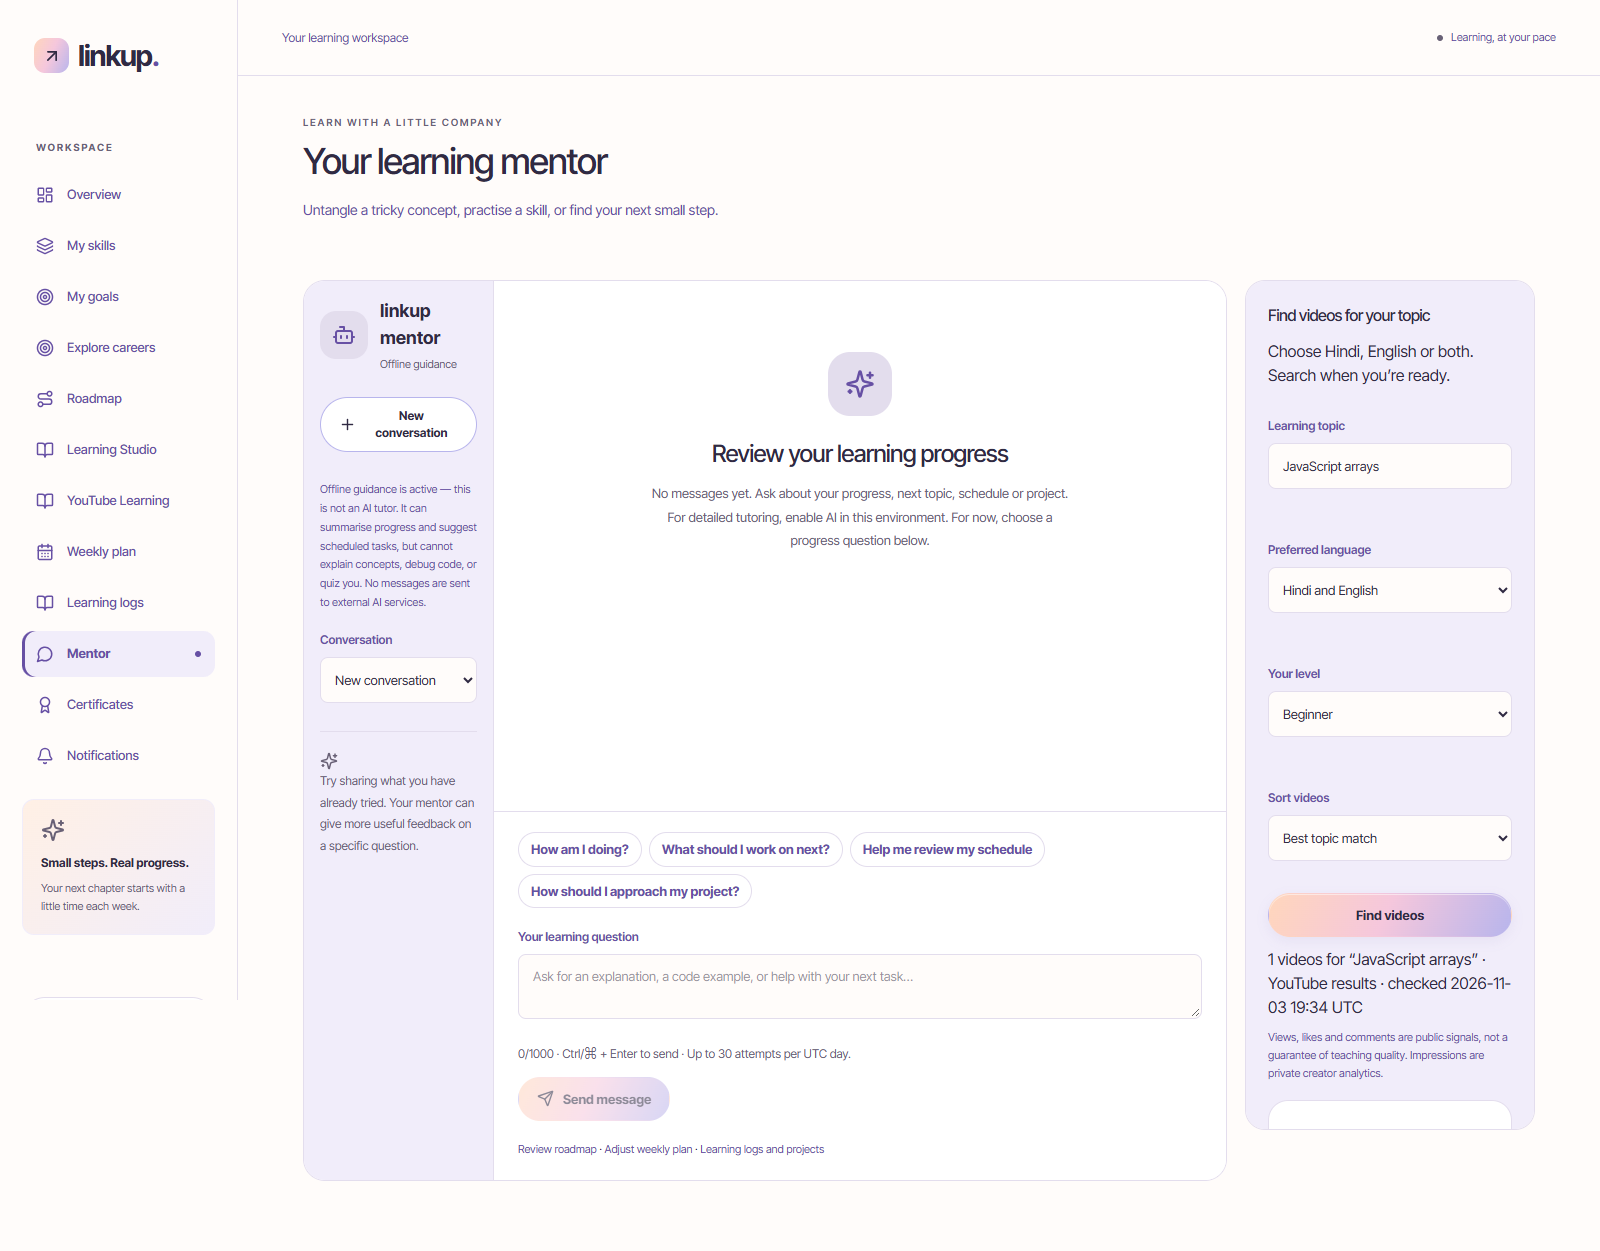
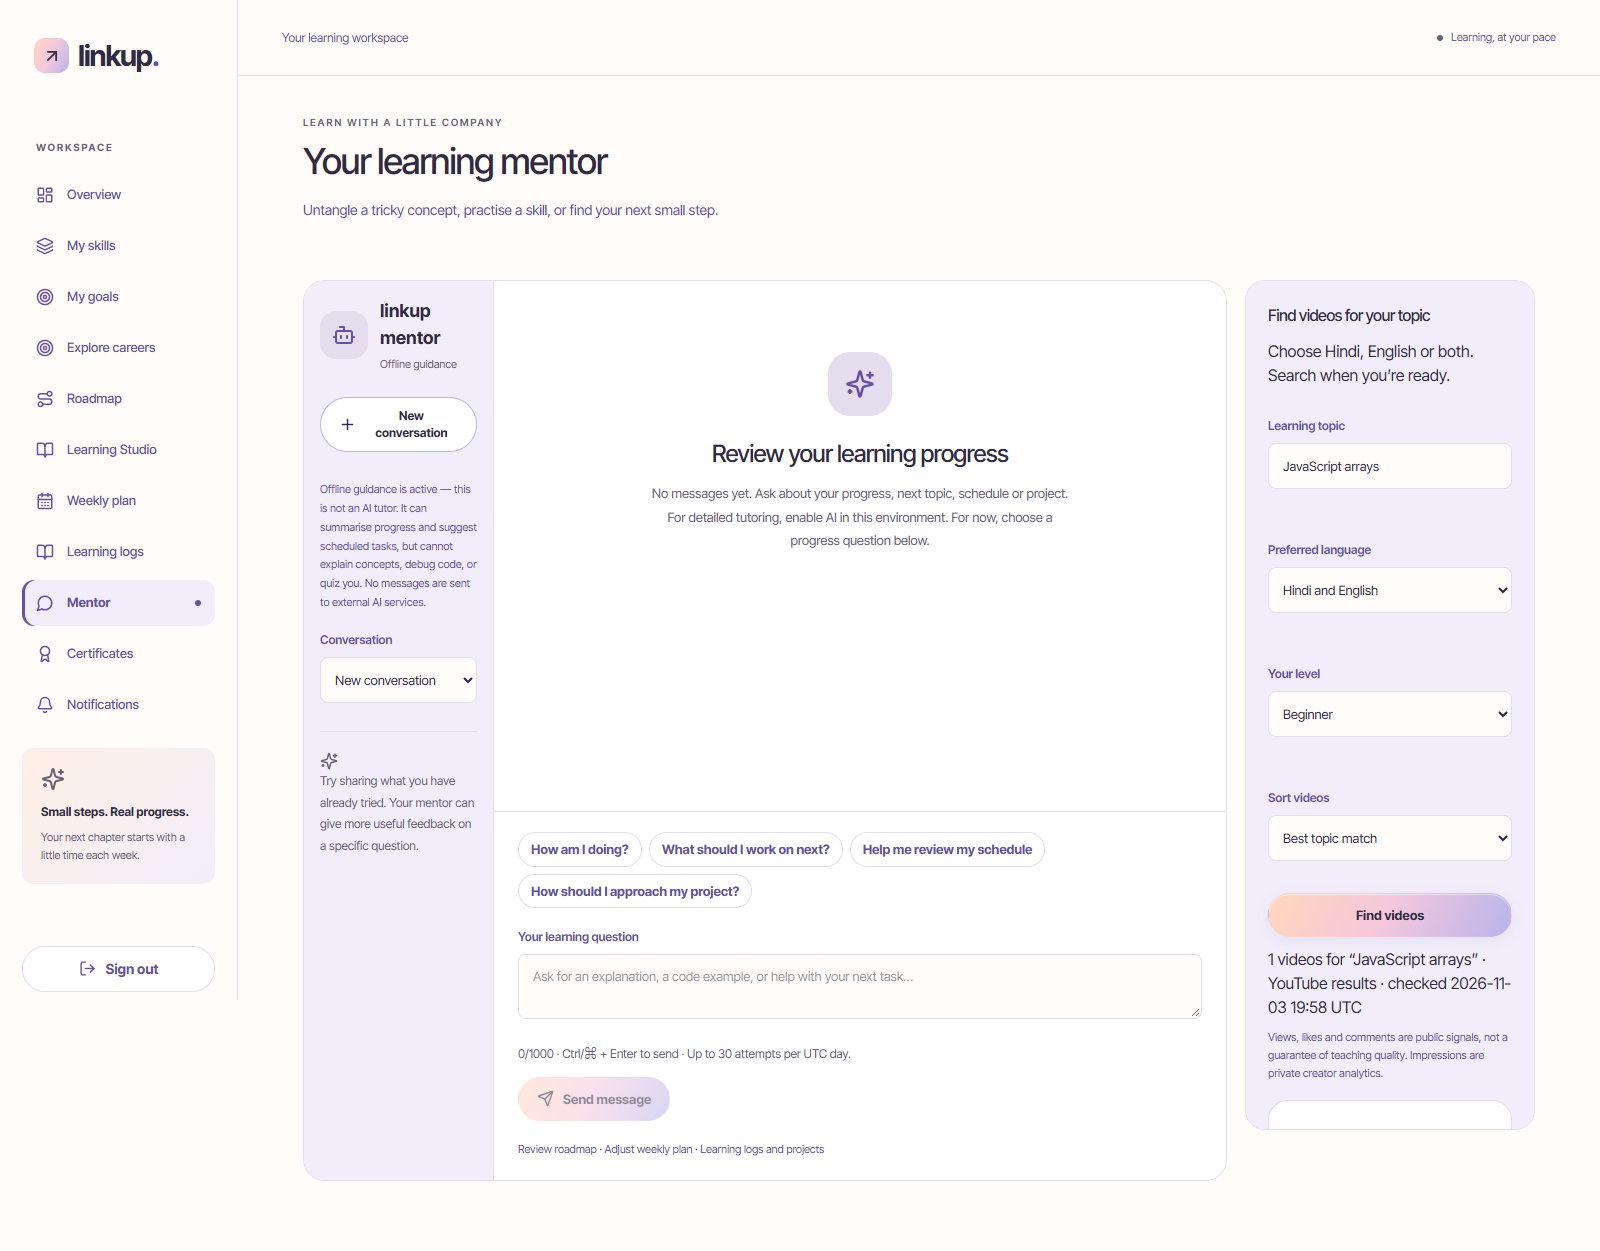
fix(studio): integrate YouTube tools into Learning Studio

diff --git a/frontend/src/pages/YouTubeLearningPage.tsx b/frontend/src/pages/YouTubeLearningPage.tsx
@@ -18,6 +18,7 @@ import {
 } from '@/features/studio/studio.api';
 import { useStudioSettings } from '@/features/studio/useStudioSettings';
 import { SectionEditor } from '@/features/studio/SectionEditor';
+import { StudioNavigation } from '@/features/studio/StudioNavigation';
 import { VideoFinder } from '@/features/youtube/VideoFinder';
 import { StudyPlanForm } from '@/features/youtube/StudyPlanForm';
 import {
@@ -139,20 +140,22 @@ function YouTubeLearningWorkspace() {
     await saveStudyPlan(item.id, 0, { ...p, estimates });
     void client.invalidateQueries({ queryKey: youtubeKeys.plans });
     void client.invalidateQueries({ queryKey: studioKeys.resources });
-    void navigate(`/youtube/${item.id}`);
+    void navigate(`/studio/${item.id}/plan`);
   }
   return (
     <AccountLayout>
       <main className="dashboard-main youtube-page">
         <PageHeader
           eyebrow="Learn your way"
-          title="YouTube Learning"
+          title="Learning Studio"
           description="Bring a favorite playlist or find videos for your topic. Build a study plan that fits your week."
         />
+        <StudioNavigation youtube />
+        <h2>YouTube videos and study plans</h2>
         {id ? (
           <>
             <p>
-              <Link to="/youtube">← Your YouTube plans</Link> ·{' '}
+              <Link to="/studio?view=youtube">← Your YouTube plans</Link> ·{' '}
               <Link to={`/studio/${id}/study`}>Continue in Learning Studio</Link> ·{' '}
               <Link to={`/studio/${id}`}>Edit chapters and skill mappings</Link>
             </p>
@@ -322,7 +325,7 @@ function YouTubeLearningWorkspace() {
                 <ul>
                   {plans.data.map((plan) => (
                     <li key={plan.resourceId}>
-                      <Link to={`/youtube/${plan.resourceId}`}>{plan.resource.title}</Link> ·{' '}
+                      <Link to={`/studio/${plan.resourceId}/plan`}>{plan.resource.title}</Link> ·{' '}
                       {plan.goal}
                     </li>
                   ))}

diff --git a/frontend/src/pages/StudioPage.tsx b/frontend/src/pages/StudioPage.tsx
@@ -1,4 +1,4 @@
-import { useState } from 'react';
+import { lazy, Suspense, useState } from 'react';
 import { useMutation, useQuery, useQueryClient } from '@tanstack/react-query';
 import { Link, useNavigate, useSearchParams } from 'react-router-dom';
 import { z } from 'zod';
@@ -22,8 +22,22 @@ import { StudioOverview } from '@/features/studio/StudioOverview';
 import { StudioPreferences } from '@/features/studio/StudioPreferences';
 import '@/features/studio/studio.css';
 import { getCurrentGoal, goalKeys } from '@/features/goals/goals.api';
+import { StudioNavigation } from '@/features/studio/StudioNavigation';
+const YouTubeLearningPage = lazy(() =>
+  import('./YouTubeLearningPage').then((module) => ({ default: module.YouTubeLearningPage })),
+);
 
 export function StudioPage() {
+  const [params] = useSearchParams();
+  return params.get('view') === 'youtube' || params.has('url') ? (
+    <Suspense fallback={<main role="status">Opening Learning Studio…</main>}>
+      <YouTubeLearningPage />
+    </Suspense>
+  ) : (
+    <StudioLibraryPage />
+  );
+}
+function StudioLibraryPage() {
   const client = useQueryClient(),
     navigate = useNavigate(),
     [params] = useSearchParams();
@@ -121,6 +135,7 @@ export function StudioPage() {
           title="Learning Studio"
           description="Bring your playlist. Watch, take notes and practice, one small chapter at a time."
         />
+        <StudioNavigation />
         <StudioOverview />
         <div className="studio-heading">
           <h2>Your learning shelf</h2>

diff --git a/frontend/src/App.tsx b/frontend/src/App.tsx
@@ -1,4 +1,4 @@
-import { Link, Route, Routes } from 'react-router-dom';
+import { Link, Navigate, Route, Routes, useParams, useSearchParams } from 'react-router-dom';
 import { lazy, Suspense } from 'react';
 import { AuthPage } from './pages/AuthPage';
 import { RecoveryPage } from './pages/RecoveryPage';
@@ -84,16 +84,10 @@ export function App() {
         }
       />
       <Route element={<ProtectedRoute />}>
+        <Route path="/youtube" element={<LegacyYouTubeRedirect />} />
+        <Route path="/youtube/:id" element={<LegacyYouTubeRedirect />} />
         <Route
-          path="/youtube"
-          element={
-            <Suspense fallback={<main role="status">Opening YouTube Learning…</main>}>
-              <YouTubeLearningPage />
-            </Suspense>
-          }
-        />
-        <Route
-          path="/youtube/:id"
+          path="/studio/:id/plan"
           element={
             <Suspense fallback={<main role="status">Loading your YouTube study plan…</main>}>
               <YouTubeLearningPage />
@@ -225,5 +219,18 @@ export function App() {
         }
       />
     </Routes>
+  );
+}
+
+function LegacyYouTubeRedirect() {
+  const { id } = useParams(),
+    [params] = useSearchParams();
+  const query = new URLSearchParams(params);
+  if (!id) query.set('view', 'youtube');
+  return (
+    <Navigate
+      replace
+      to={`${id ? `/studio/${encodeURIComponent(id)}/plan` : '/studio'}${query.size ? `?${query}` : ''}`}
+    />
   );
 }

diff --git a/frontend/src/features/studio/StudioNavigation.tsx b/frontend/src/features/studio/StudioNavigation.tsx
@@ -1,0 +1,25 @@
+import { Link } from 'react-router-dom';
+export function StudioNavigation({ youtube = false }: { youtube?: boolean }) {
+  return (
+    <nav
+      aria-label="Learning Studio sections"
+      className="studio-heading"
+      style={{ marginBottom: 24, justifyContent: 'flex-start', gap: 12, flexWrap: 'wrap' }}
+    >
+      <Link
+        to="/studio"
+        className={`button ${youtube ? 'button-outline' : 'button-glow'}`}
+        aria-current={!youtube ? 'page' : undefined}
+      >
+        Learning shelf
+      </Link>
+      <Link
+        to="/studio?view=youtube"
+        className={`button ${youtube ? 'button-glow' : 'button-outline'}`}
+        aria-current={youtube ? 'page' : undefined}
+      >
+        YouTube videos and plans
+      </Link>
+    </nav>
+  );
+}

diff --git a/frontend/src/features/youtube/VideoFinder.tsx b/frontend/src/features/youtube/VideoFinder.tsx
@@ -81,7 +81,7 @@ function VideoCard({
         >
           Watch on YouTube
         </a>
-        <Link className="button button-glow" to={`/youtube?${params}`}>
+        <Link className="button button-glow" to={`/studio?view=youtube&${params}`}>
           Build my study plan
         </Link>
       </div>
@@ -249,7 +249,9 @@ export function VideoFinder({
         </>
       )}
       <p>
-        <Link to="/youtube">Bring a favorite video or playlist →</Link>
+        <Link to="/studio?view=youtube">
+          Bring a favorite video or playlist to Learning Studio →
+        </Link>
       </p>
     </section>
   );

diff --git a/frontend/src/features/youtube/VideoFinder.test.tsx b/frontend/src/features/youtube/VideoFinder.test.tsx
@@ -80,7 +80,7 @@ describe('topic video finder', () => {
     expect(getVideoComments).not.toHaveBeenCalled();
     expect(
       screen.getByRole('link', { name: 'Build my study plan' }).getAttribute('href'),
-    ).toContain('/youtube?url=');
+    ).toContain('/studio?view=youtube&url=');
     await user.click(screen.getByRole('button', { name: 'Show top comments' }));
     await screen.findByText('<script>unsafe()</script> Useful lesson.');
     expect(document.querySelector('.youtube-comments script')).toBeNull();

diff --git a/frontend/src/pages/AuthPage.tsx b/frontend/src/pages/AuthPage.tsx
@@ -43,7 +43,7 @@ export function AuthPage({ mode }: { mode: 'login' | 'register' }) {
   const from: unknown = location.state?.from;
   const returnTo =
     typeof from === 'string' &&
-    /^\/(?:dashboard|skills|goals|roadmap|plan|progress|mentor|certificates|notifications)(?:[/?#]|$)/.test(
+    /^\/(?:dashboard|skills|goals|roadmap|plan|progress|mentor|studio|youtube|certificates|notifications)(?:[/?#]|$)/.test(
       from,
     )
       ? from

diff --git a/frontend/src/pages/StudioTrackerPage.tsx b/frontend/src/pages/StudioTrackerPage.tsx
@@ -117,7 +117,7 @@ export function StudioTrackerPage() {
             <>
               {data.provider === 'youtube' && (
                 <p>
-                  <Link to={`/youtube/${id}`}>Build or edit your YouTube study schedule →</Link>
+                  <Link to={`/studio/${id}/plan`}>Build or edit your YouTube study schedule →</Link>
                 </p>
               )}
               <PageHeader

diff --git a/frontend/src/components/layout/AccountLayout.tsx b/frontend/src/components/layout/AccountLayout.tsx
@@ -28,7 +28,6 @@ const navItems = [
   ['/roles', 'Explore careers', Target],
   ['/roadmap', 'Roadmap', Route],
   ['/studio', 'Learning Studio', BookOpen],
-  ['/youtube', 'YouTube Learning', BookOpen],
   ['/plan', 'Weekly plan', CalendarDays],
   ['/progress', 'Learning logs', BookOpen],
   ['/mentor', 'Mentor', MessageCircle],

diff --git a/docs/YOUTUBE_LEARNING.md b/docs/YOUTUBE_LEARNING.md
@@ -1,6 +1,6 @@
 # YouTube suggestions and personal study plans
 
-Open **Mentor** for the topic-based video finder, or **YouTube Learning** for a favorite-link workflow and saved study schedules. Set only the existing server-side `YOUTUBE_API_KEY` in Vercel Production and redeploy. No new provider key or model setting is needed. Mercury/Gemini mentor routing and career roadmap generation remain unchanged.
+Open **Mentor** for the topic-based video finder, or **Learning Studio → YouTube videos and plans** for favorite links and saved study schedules. Learning Studio is the single workspace for the learning shelf, YouTube discovery, planning and study tools. Old `/youtube` links redirect into Studio and preserve their parameters. Set only the existing server-side `YOUTUBE_API_KEY` in Vercel Production and redeploy. No new provider key or model setting is needed. Mercury/Gemini mentor routing and career roadmap generation remain unchanged.
 
 ## Find videos
 
@@ -18,7 +18,7 @@ Enter a learning goal, level, preferred language, minutes per study day, weekday
 
 Preview the schedule before saving. Videos are scheduled in chapter order and long videos are split across sessions referencing the same Studio item. Each chapter includes suggested practice (10 minutes for beginners, 15 intermediate, 20 advanced) and five minutes of review. These are LinkUp planning estimates, not claims about the video content. The plan uses available titles/durations and user preferences; it does not download videos or claim transcript analysis. Infeasible deadlines produce a warning and a realistic finish date, without dropping content. Plans requiring over 3,660 study days ask for more availability or a smaller resource.
 
-Saved plans appear in **YouTube Learning**. Session links open Learning Studio at the scheduled video position. Seeking earns no watch credit. Existing video progress, notes, code and analytics remain authoritative. Suggested practice/review are planning guidance, not automatic learning logs or completions. Editing chapters flags the saved schedule for regeneration; updating a schedule preserves watch progress. Resource deletion cascades to its study plan. Conflicting edits return a reload error.
+Saved plans appear in **Learning Studio → YouTube videos and plans**. Plan details use `/studio/:id/plan`; the learning shelf remains at `/studio`. Session links open Studio at the scheduled video position. Seeking earns no watch credit. Existing video progress, notes, code and analytics remain authoritative. Suggested practice/review are planning guidance, not automatic learning logs or completions. Editing chapters flags the saved schedule for regeneration; updating a schedule preserves watch progress. Resource deletion cascades to its study plan. Conflicting edits return a reload error.
 
 ## API and quota boundaries
 

diff --git a/README.md b/README.md
@@ -8,7 +8,7 @@ Turn your career goals into a learning journey you can actually follow.
 
 The mentor supports Mercury 3 with Gemini fallback through private server settings. See [Mercury setup and Vercel variables](docs/MERCURY_MENTOR.md).
 
-Mentor video suggestions and **YouTube Learning** add Hindi/English discovery, public video statistics, top comments and personal schedules from favorite videos/playlists. See [YouTube setup and study planning](docs/YOUTUBE_LEARNING.md); both use the existing `YOUTUBE_API_KEY`.
+Mentor video suggestions and **Learning Studio → YouTube videos and plans** add Hindi/English discovery, public video statistics, top comments and personal schedules from favorite videos/playlists. See [YouTube setup and study planning](docs/YOUTUBE_LEARNING.md); both use the existing `YOUTUBE_API_KEY`.
 
 Learning Studio adds playlist/custom-resource imports, timestamped notes, isolated coding practice, resource analytics and timezone-aware daily recaps. See [setup and execution boundaries](docs/LEARNING_STUDIO.md). Playlist enumeration optionally uses a server-only `YOUTUBE_API_KEY`; manual video links and custom checklists work without it.
 
